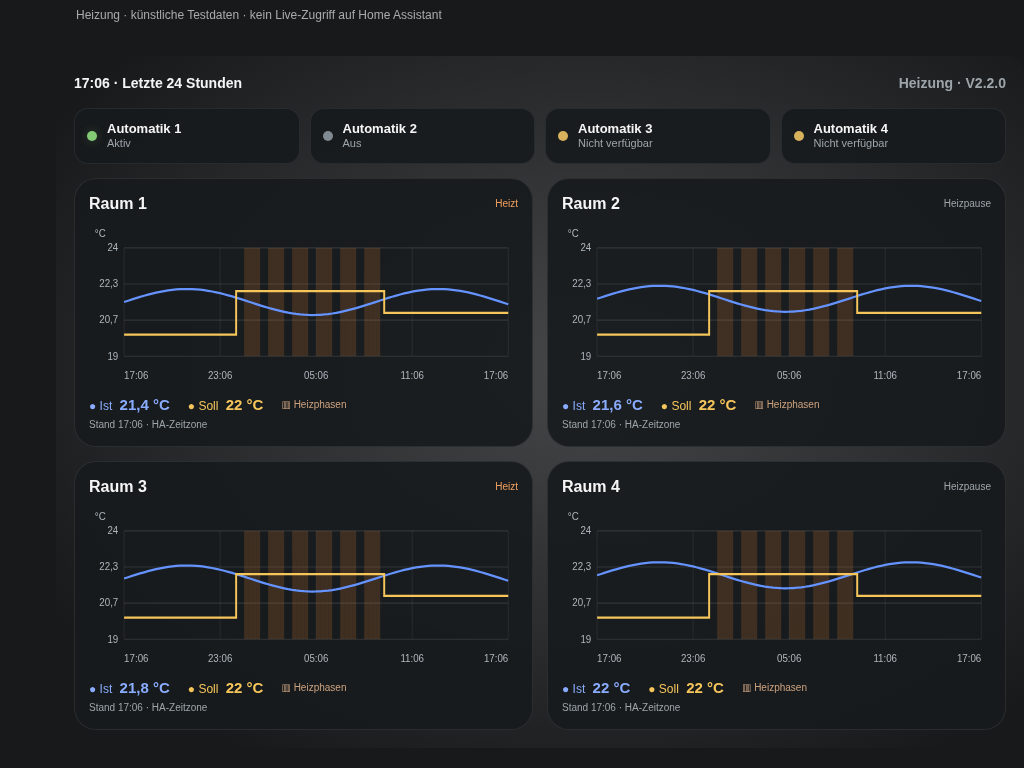
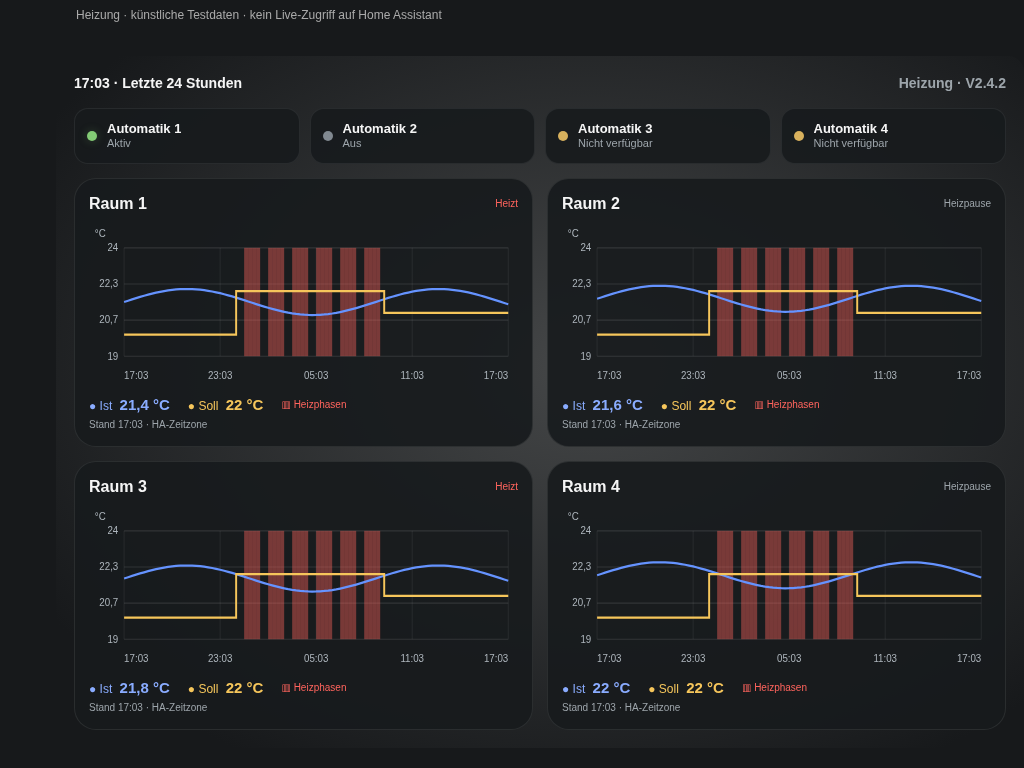
Make heating phases red with stronger opacity

diff --git a/dist/Homedashboard-iPad.js b/dist/Homedashboard-iPad.js
@@ -1,4 +1,4 @@
-/* Home Dashboard iPad v2.4.1 | Generated by npm run build. Edit sources, not this file. */
+/* Home Dashboard iPad v2.4.2 | Generated by npm run build. Edit sources, not this file. */
 (()=>{
 'use strict';
 const escapeHTML = (v) => String(v ?? '').replace(/[&<>"']/g, (c) => ({'&':'&amp;','<':'&lt;','>':'&gt;','"':'&quot;',"'":'&#39;'}[c]));
@@ -95,7 +95,7 @@ function heatingSeries(histories, room, start, end) {
 const esc=escapeHTML;
 
 
-const VERSION='2.4.1';
+const VERSION='2.4.2';
 const DEFAULT_ENTITIES={"current_price": null, "pv_power": null, "pv_energy_today": null, "electricity_consumption_today": null, "electricity_cost_today": null, "vehicle_range": null, "vehicle_soc": null, "vehicle_plug": null, "vehicle_charging": null, "vehicle_target_soc": null, "vehicle_charged_today": null};
 const WEATHER={sunny:['☀','Sonnig'],clear:['☀','Klar'],'clear-night':['☾','Klare Nacht'],cloudy:['☁','Bewölkt'],partlycloudy:['⛅','Teils bewölkt'],rainy:['🌧','Regen'],pouring:['🌧','Starkregen'],snowy:['❄','Schnee'],'snowy-rainy':['🌨','Schneeregen'],fog:['≋','Nebel'],windy:['≋','Windig'],'windy-variant':['≋','Windig'],lightning:['ϟ','Gewitter'],'lightning-rainy':['⛈','Gewitter'],hail:['🌨','Hagel'],exceptional:['⚠','Unwetter']};
 class HomeDashboard extends HTMLElement {
@@ -268,8 +268,8 @@ class HomeDashboard extends HTMLElement {
       if(previous)d+=` H${x(end)}`;
       return d;
     };
-    const bands=series.activity.map((p,i)=>p.value===1?`<rect x="${x(p.time)}" y="22" width="${Math.max(0,x(series.activity[i+1]?.time??end)-x(p.time))}" height="96" fill="#ed8936" opacity=".18"/>`:'').join('');
-    return `<svg class="heating-chart" viewBox="0 0 440 146" preserveAspectRatio="none" role="img" aria-label="${esc(name)}: Isttemperatur blau, Solltemperatur gelb und Heizphasen orange; letzte 24 Stunden"><g font-size="10" fill="#aeb6bd">${Array.from({length:4},(_,i)=>low+(high-low)*i/3).map(v=>`<path d="M36 ${y(v)} H430" stroke="#ffffff1c"/><text x="30" y="${y(v)+3}" text-anchor="end">${v.toLocaleString('de-DE',{maximumFractionDigits:1})}</text>`).join('')}${Array.from({length:5},(_,i)=>start+i*21600000).map((t,i)=>`<path d="M${x(t)} 22 V118" stroke="#ffffff12"/><text x="${x(t)}" y="138" text-anchor="${i===0?'start':i===4?'end':'middle'}">${this._time(new Date(t))}</text>`).join('')}<text x="6" y="12">${esc(this._hass.config?.unit_system?.temperature||'°C')}</text></g>${bands}<path class="actual-line" d="${line(series.actual,false)}" fill="none" stroke="#6593ff" stroke-width="2"/><path class="target-line" d="${line(series.target,true)}" fill="none" stroke="#f6c65b" stroke-width="2"/></svg>`;
+    const bands=series.activity.map((p,i)=>p.value===1?`<rect x="${x(p.time)}" y="22" width="${Math.max(0,x(series.activity[i+1]?.time??end)-x(p.time))}" height="96" fill="#ff645d" opacity=".42"/>`:'').join('');
+    return `<svg class="heating-chart" viewBox="0 0 440 146" preserveAspectRatio="none" role="img" aria-label="${esc(name)}: Isttemperatur blau, Solltemperatur gelb und Heizphasen rot; letzte 24 Stunden"><g font-size="10" fill="#aeb6bd">${Array.from({length:4},(_,i)=>low+(high-low)*i/3).map(v=>`<path d="M36 ${y(v)} H430" stroke="#ffffff1c"/><text x="30" y="${y(v)+3}" text-anchor="end">${v.toLocaleString('de-DE',{maximumFractionDigits:1})}</text>`).join('')}${Array.from({length:5},(_,i)=>start+i*21600000).map((t,i)=>`<path d="M${x(t)} 22 V118" stroke="#ffffff12"/><text x="${x(t)}" y="138" text-anchor="${i===0?'start':i===4?'end':'middle'}">${this._time(new Date(t))}</text>`).join('')}<text x="6" y="12">${esc(this._hass.config?.unit_system?.temperature||'°C')}</text></g>${bands}<path class="actual-line" d="${line(series.actual,false)}" fill="none" stroke="#6593ff" stroke-width="2"/><path class="target-line" d="${line(series.target,true)}" fill="none" stroke="#f6c65b" stroke-width="2"/></svg>`;
   }
   _priceWindow(now=new Date()){
     const w=dayWindow(now,this._zone()),all=this._data.prices||[];
@@ -324,7 +324,7 @@ class HomeDashboard extends HTMLElement {
 }
 const STYLE=`
 
-.heating-layout{height:calc(100vh - var(--header-height,56px) - 90px);min-height:520px;max-height:1000px;display:flex;flex-direction:column;gap:14px}.automation-status{display:grid;grid-template-columns:repeat(4,minmax(0,1fr));gap:10px;flex-shrink:0}.automation-item{display:flex;align-items:center;gap:10px;background:#171a1de8;border:1px solid #ffffff12;border-radius:14px;padding:12px;min-width:0}.automation-item>div{min-width:0}.automation-name{display:block;overflow:hidden;text-overflow:ellipsis;white-space:nowrap;font-size:13px;font-weight:600}.status-dot{width:10px;height:10px;border-radius:50%;background:#d8b15d;flex-shrink:0}.status-dot.active{background:#83cb75;box-shadow:0 0 10px #83cb7540}.status-dot.inactive{background:#818991}.thermostats{display:grid;grid-template-columns:repeat(2,minmax(0,1fr));grid-template-rows:repeat(2,minmax(0,1fr));gap:14px;flex:1;min-height:0}.thermostat{display:flex;flex-direction:column;border:1px solid #ffffff15}.thermostat>.heading{flex-shrink:0;min-height:22px}.thermostat h2{margin:0;font-size:16px;white-space:nowrap;overflow:hidden;text-overflow:ellipsis;min-width:0}.heat-action{white-space:nowrap;font-size:10px}.heating-active{color:#f3a05d}.thermostat .heating-chart{display:block;flex:1;width:100%;height:0;min-height:80px;max-height:none;margin:8px 0}.heating-legend{display:flex;align-items:center;gap:18px;flex-shrink:0;flex-wrap:wrap;font-size:12px}.heating-legend strong{font-size:15px;margin-left:4px;white-space:nowrap}.heating-legend .actual{color:#8aacff}.heating-legend .target{color:#f6c65b}.heating-legend small{font-size:10px;color:#cda27f}.history-note{font-size:10px;min-height:14px;margin-top:5px}.heating-empty{display:grid;place-content:center;flex:1;min-height:80px;color:var(--muted);font-size:13px;text-align:center}.thermostat.empty p{margin:auto;text-align:center}@media(max-width:760px){.heating-layout{height:auto;min-height:0;max-height:none}.automation-status{grid-template-columns:repeat(2,minmax(0,1fr))}.thermostats{grid-template-columns:minmax(0,1fr);grid-template-rows:repeat(4,260px)}.automation-item{padding:10px}.heating-legend{gap:12px}}
+.heating-layout{height:calc(100vh - var(--header-height,56px) - 90px);min-height:520px;max-height:1000px;display:flex;flex-direction:column;gap:14px}.automation-status{display:grid;grid-template-columns:repeat(4,minmax(0,1fr));gap:10px;flex-shrink:0}.automation-item{display:flex;align-items:center;gap:10px;background:#171a1de8;border:1px solid #ffffff12;border-radius:14px;padding:12px;min-width:0}.automation-item>div{min-width:0}.automation-name{display:block;overflow:hidden;text-overflow:ellipsis;white-space:nowrap;font-size:13px;font-weight:600}.status-dot{width:10px;height:10px;border-radius:50%;background:#d8b15d;flex-shrink:0}.status-dot.active{background:#83cb75;box-shadow:0 0 10px #83cb7540}.status-dot.inactive{background:#818991}.thermostats{display:grid;grid-template-columns:repeat(2,minmax(0,1fr));grid-template-rows:repeat(2,minmax(0,1fr));gap:14px;flex:1;min-height:0}.thermostat{display:flex;flex-direction:column;border:1px solid #ffffff15}.thermostat>.heading{flex-shrink:0;min-height:22px}.thermostat h2{margin:0;font-size:16px;white-space:nowrap;overflow:hidden;text-overflow:ellipsis;min-width:0}.heat-action{white-space:nowrap;font-size:10px}.heating-active{color:#ff645d}.thermostat .heating-chart{display:block;flex:1;width:100%;height:0;min-height:80px;max-height:none;margin:8px 0}.heating-legend{display:flex;align-items:center;gap:18px;flex-shrink:0;flex-wrap:wrap;font-size:12px}.heating-legend strong{font-size:15px;margin-left:4px;white-space:nowrap}.heating-legend .actual{color:#8aacff}.heating-legend .target{color:#f6c65b}.heating-legend small{font-size:10px;color:#ff645d}.history-note{font-size:10px;min-height:14px;margin-top:5px}.heating-empty{display:grid;place-content:center;flex:1;min-height:80px;color:var(--muted);font-size:13px;text-align:center}.thermostat.empty p{margin:auto;text-align:center}@media(max-width:760px){.heating-layout{height:auto;min-height:0;max-height:none}.automation-status{grid-template-columns:repeat(2,minmax(0,1fr))}.thermostats{grid-template-columns:minmax(0,1fr);grid-template-rows:repeat(4,260px)}.automation-item{padding:10px}.heating-legend{gap:12px}}
 .price-open{display:block;width:100%;height:calc(100% - 48px);padding:0;border:0;background:transparent;color:var(--muted);text-align:right;cursor:zoom-in}.price-open svg{height:calc(100% - 20px);max-height:none;margin:0}.price-open span{font-size:11px}.price-open:focus-visible,.price-close:focus-visible{outline:2px solid var(--cyan);outline-offset:2px}.price-dialog{background:#171a1d;color:#f5f5f5;border:1px solid #59636d;border-radius:18px;width:min(1000px,94vw);max-height:92vh;overflow:auto;padding:20px}.price-dialog::backdrop{background:#000b}.price-dialog h2{margin:0}.price-dialog p{margin:12px 0}.price-close{min-height:44px;padding:8px 16px;background:#303940;color:white;border:1px solid #687580;border-radius:10px;font:inherit;cursor:pointer}.price-detail-chart svg{height:clamp(180px,48vh,430px);max-height:none;touch-action:none;cursor:crosshair}.price-readout{display:block;min-height:48px;padding:12px 0;font-size:18px;color:#ffda18;font-variant-numeric:tabular-nums}.price-slider-label{display:block;font-size:13px}.price-slider{display:block;width:100%;min-height:44px;accent-color:#6bd2dc}
 :host{display:block;color:#f5f5f5;font-family:-apple-system,BlinkMacSystemFont,'Segoe UI',sans-serif;--cyan:#6bd2dc;--muted:#9da5ab}*{box-sizing:border-box}main{background:radial-gradient(ellipse at 55% 45%,#454748,#17191b 85%);padding:12px 18px 18px;border-radius:16px}header{display:flex;justify-content:space-between;align-items:center;font-weight:650;height:30px;margin-bottom:10px;font-size:14px}header>span:last-child{color:var(--muted)}.grid{display:grid;grid-template-columns:1fr 1fr 1fr;grid-template-rows:2.5fr 1fr 1.1fr .95fr;grid-template-areas:'left price radar' 'left middle weather' 'left middle weather' 'left middle weather';gap:14px;height:calc(100vh - var(--header-height,56px) - 90px);min-height:520px;max-height:1000px}.tile{background:#171a1de8;border-radius:22px;padding:14px;min-width:0;overflow:hidden}.middle-bottom{grid-area:middle;display:grid;grid-template-rows:minmax(136px,.95fr) minmax(140px,1fr);gap:14px;min-height:0;min-width:0}.middle-bottom>.tile{grid-area:auto;min-height:0}.left-column{grid-area:left;display:grid;grid-template-rows:minmax(0,4fr) minmax(100px,1.1fr) 64px;gap:14px;min-height:0;min-width:0}.left-column>.tile{grid-area:auto;min-height:0}.climate{grid-area:climate;display:flex;flex-direction:column}.price{grid-area:price}.radar{grid-area:radar;padding:0;position:relative}.car{grid-area:car}.car-header{margin-bottom:4px}.car-header h2{margin:0;font-size:14px;min-width:0;overflow:hidden;text-overflow:ellipsis;white-space:nowrap}.car-status{flex-shrink:0}.car .big{font-size:28px}.calendar{grid-area:calendar;display:flex;flex-direction:column;gap:2px;padding:10px 12px}.calendar h2{font-size:12px;line-height:14px;margin:0}.calendar .event{display:grid;grid-template-columns:90px minmax(0,1fr);align-items:center;gap:6px;padding:2px 0;border-bottom:1px solid #ffffff12;font-size:11px;line-height:13px;min-height:18px}.calendar .event small{font-size:9px;line-height:13px;white-space:nowrap;overflow:hidden;text-overflow:ellipsis}.calendar>small{font-size:8px;line-height:10px}.calendar p{margin:0;font-size:11px}.weather{grid-area:weather;display:flex;flex-direction:column;gap:6px}.weather>.heading{flex-shrink:0}.weather h2{margin:0}.weather .big{font-size:28px}.weather>.heading>span{font-size:13px}.night{grid-area:night;background:#08a7dd;display:flex;align-items:center;justify-content:space-between;gap:8px;padding:8px 12px}.night h2{margin:0;font-size:15px}.night small{font-size:9px;max-width:38%;text-align:right}.pv{grid-area:pv;padding:12px}.pv h2{font-size:13px;line-height:15px;margin-bottom:7px}.energy-values{display:grid;grid-template-columns:repeat(2,minmax(0,1fr));align-items:start;gap:6px 10px}.energy-values>div{min-width:0}.energy-values strong{display:block;font-size:20px;line-height:1.15;white-space:nowrap;font-variant-numeric:tabular-nums}.energy-values strong small{display:inline;font-weight:400}.energy-values small{font-size:10px;line-height:1.2}h2{font-size:16px;margin:0 0 10px}p{font-size:14px;color:var(--muted)}small{display:block;font-size:11px;color:var(--muted);line-height:1.4}strong{font-size:18px}b{font-size:17px}.heading{display:flex;align-items:center;justify-content:space-between;gap:8px}.heading>strong{text-align:right}.big{font-size:32px;line-height:1.2}.big small{display:inline}.cyan{color:var(--cyan)}.green{color:#7ac64f}.yellow{color:#ffda18}.red{color:#ff645d}.rooms{display:grid;flex:1;min-height:0;grid-template-rows:repeat(var(--room-count,8),minmax(0,1fr));gap:2px}.room{display:grid;grid-template-columns:1.05fr 1.15fr .7fr 1fr;align-items:center;gap:4px;min-height:0}.room>*{min-width:0}.room.pm25{grid-template-columns:1.05fr 1.15fr 1.7fr}.pm25-range{display:grid;grid-template-columns:repeat(2,minmax(0,1fr));gap:6px}.room .pm25-range b{font-size:12px}.pm25-range>span{min-width:0}.pm25-range small{white-space:nowrap}.room>div{white-space:nowrap}.room strong{font-size:13px}.room b{font-size:16px}.co2{font-size:12px;white-space:nowrap}.co2 small{display:inline;margin-left:2px;font-size:9px}.room small{font-size:9px}svg{width:100%;max-height:calc(100% - 56px);display:block;margin-top:6px}.hours{display:grid;grid-template-columns:repeat(6,minmax(0,1fr));gap:2px;margin:6px 0;flex-shrink:0}.hours>div{text-align:center}.hours span{display:block;font-size:18px;line-height:1.2;margin:4px 0}.hours b{font-size:12px}.hours small{font-size:10px;white-space:nowrap}.days{border-top:1px solid #ffffff33;padding-top:6px;display:grid;grid-auto-rows:minmax(0,1fr);flex:1;min-height:0}.days>div{display:grid;grid-template-columns:1fr 1fr 1fr 1fr;gap:6px;align-items:center;min-height:0}.days b{font-size:14px}.days span{font-size:14px}.days span:nth-child(3){color:var(--muted)}.days b:last-child{text-align:right}.event{padding:6px 0;border-bottom:1px solid #ffffff12;font-size:13px;overflow-wrap:anywhere}.event small{font-size:10px}.event>div{white-space:nowrap;overflow:hidden;text-overflow:ellipsis}.night button{appearance:none;border:0;background:transparent;color:white;font:inherit;font-weight:700;font-size:15px;padding:0;text-align:left;cursor:pointer;min-height:44px}.night small{color:#e1f7ff}.radar-cover{height:100%;pointer-events:none;user-select:none}.radar-cover>*{height:100%;display:block}.radar h2,.radar p{padding:14px}@media(max-width:760px){main{padding:10px}.left-column,.middle-bottom{display:contents}.middle-bottom>.pv{grid-area:pv}.middle-bottom>.calendar{grid-area:calendar}.left-column>.climate{grid-area:climate}.left-column>.car{grid-area:car}.left-column>.night{grid-area:night;padding:8px 12px}.grid{grid-auto-rows:64px}.grid{height:auto;min-height:0;grid-template-columns:1fr 1fr;grid-template-rows:400px 250px 160px 170px 120px;grid-template-areas:'climate weather' 'price radar' 'pv pv' 'calendar calendar' 'car car' 'night night'}.tile{padding:12px}.radar{padding:0}}`;
 if(!customElements.get('home-dashboard'))customElements.define('home-dashboard',HomeDashboard);

diff --git a/www/home-dashboard/home-dashboard.js b/www/home-dashboard/home-dashboard.js
@@ -1,6 +1,6 @@
-import {escapeHTML as esc, dayKey, dayWindow, midnight, numberState, selectPrices, calendarEvents, historyExtrema, temperatureValue, heatingActivity, heatingSeries} from './data.js?v=2.4.1';
+import {escapeHTML as esc, dayKey, dayWindow, midnight, numberState, selectPrices, calendarEvents, historyExtrema, temperatureValue, heatingActivity, heatingSeries} from './data.js?v=2.4.2';
 
-const VERSION='2.4.1';
+const VERSION='2.4.2';
 const DEFAULT_ENTITIES={"current_price": null, "pv_power": null, "pv_energy_today": null, "electricity_consumption_today": null, "electricity_cost_today": null, "vehicle_range": null, "vehicle_soc": null, "vehicle_plug": null, "vehicle_charging": null, "vehicle_target_soc": null, "vehicle_charged_today": null};
 const WEATHER={sunny:['☀','Sonnig'],clear:['☀','Klar'],'clear-night':['☾','Klare Nacht'],cloudy:['☁','Bewölkt'],partlycloudy:['⛅','Teils bewölkt'],rainy:['🌧','Regen'],pouring:['🌧','Starkregen'],snowy:['❄','Schnee'],'snowy-rainy':['🌨','Schneeregen'],fog:['≋','Nebel'],windy:['≋','Windig'],'windy-variant':['≋','Windig'],lightning:['ϟ','Gewitter'],'lightning-rainy':['⛈','Gewitter'],hail:['🌨','Hagel'],exceptional:['⚠','Unwetter']};
 export class HomeDashboard extends HTMLElement {
@@ -173,8 +173,8 @@ export class HomeDashboard extends HTMLElement {
       if(previous)d+=` H${x(end)}`;
       return d;
     };
-    const bands=series.activity.map((p,i)=>p.value===1?`<rect x="${x(p.time)}" y="22" width="${Math.max(0,x(series.activity[i+1]?.time??end)-x(p.time))}" height="96" fill="#ed8936" opacity=".18"/>`:'').join('');
-    return `<svg class="heating-chart" viewBox="0 0 440 146" preserveAspectRatio="none" role="img" aria-label="${esc(name)}: Isttemperatur blau, Solltemperatur gelb und Heizphasen orange; letzte 24 Stunden"><g font-size="10" fill="#aeb6bd">${Array.from({length:4},(_,i)=>low+(high-low)*i/3).map(v=>`<path d="M36 ${y(v)} H430" stroke="#ffffff1c"/><text x="30" y="${y(v)+3}" text-anchor="end">${v.toLocaleString('de-DE',{maximumFractionDigits:1})}</text>`).join('')}${Array.from({length:5},(_,i)=>start+i*21600000).map((t,i)=>`<path d="M${x(t)} 22 V118" stroke="#ffffff12"/><text x="${x(t)}" y="138" text-anchor="${i===0?'start':i===4?'end':'middle'}">${this._time(new Date(t))}</text>`).join('')}<text x="6" y="12">${esc(this._hass.config?.unit_system?.temperature||'°C')}</text></g>${bands}<path class="actual-line" d="${line(series.actual,false)}" fill="none" stroke="#6593ff" stroke-width="2"/><path class="target-line" d="${line(series.target,true)}" fill="none" stroke="#f6c65b" stroke-width="2"/></svg>`;
+    const bands=series.activity.map((p,i)=>p.value===1?`<rect x="${x(p.time)}" y="22" width="${Math.max(0,x(series.activity[i+1]?.time??end)-x(p.time))}" height="96" fill="#ff645d" opacity=".42"/>`:'').join('');
+    return `<svg class="heating-chart" viewBox="0 0 440 146" preserveAspectRatio="none" role="img" aria-label="${esc(name)}: Isttemperatur blau, Solltemperatur gelb und Heizphasen rot; letzte 24 Stunden"><g font-size="10" fill="#aeb6bd">${Array.from({length:4},(_,i)=>low+(high-low)*i/3).map(v=>`<path d="M36 ${y(v)} H430" stroke="#ffffff1c"/><text x="30" y="${y(v)+3}" text-anchor="end">${v.toLocaleString('de-DE',{maximumFractionDigits:1})}</text>`).join('')}${Array.from({length:5},(_,i)=>start+i*21600000).map((t,i)=>`<path d="M${x(t)} 22 V118" stroke="#ffffff12"/><text x="${x(t)}" y="138" text-anchor="${i===0?'start':i===4?'end':'middle'}">${this._time(new Date(t))}</text>`).join('')}<text x="6" y="12">${esc(this._hass.config?.unit_system?.temperature||'°C')}</text></g>${bands}<path class="actual-line" d="${line(series.actual,false)}" fill="none" stroke="#6593ff" stroke-width="2"/><path class="target-line" d="${line(series.target,true)}" fill="none" stroke="#f6c65b" stroke-width="2"/></svg>`;
   }
   _priceWindow(now=new Date()){
     const w=dayWindow(now,this._zone()),all=this._data.prices||[];
@@ -229,7 +229,7 @@ export class HomeDashboard extends HTMLElement {
 }
 const STYLE=`
 
-.heating-layout{height:calc(100vh - var(--header-height,56px) - 90px);min-height:520px;max-height:1000px;display:flex;flex-direction:column;gap:14px}.automation-status{display:grid;grid-template-columns:repeat(4,minmax(0,1fr));gap:10px;flex-shrink:0}.automation-item{display:flex;align-items:center;gap:10px;background:#171a1de8;border:1px solid #ffffff12;border-radius:14px;padding:12px;min-width:0}.automation-item>div{min-width:0}.automation-name{display:block;overflow:hidden;text-overflow:ellipsis;white-space:nowrap;font-size:13px;font-weight:600}.status-dot{width:10px;height:10px;border-radius:50%;background:#d8b15d;flex-shrink:0}.status-dot.active{background:#83cb75;box-shadow:0 0 10px #83cb7540}.status-dot.inactive{background:#818991}.thermostats{display:grid;grid-template-columns:repeat(2,minmax(0,1fr));grid-template-rows:repeat(2,minmax(0,1fr));gap:14px;flex:1;min-height:0}.thermostat{display:flex;flex-direction:column;border:1px solid #ffffff15}.thermostat>.heading{flex-shrink:0;min-height:22px}.thermostat h2{margin:0;font-size:16px;white-space:nowrap;overflow:hidden;text-overflow:ellipsis;min-width:0}.heat-action{white-space:nowrap;font-size:10px}.heating-active{color:#f3a05d}.thermostat .heating-chart{display:block;flex:1;width:100%;height:0;min-height:80px;max-height:none;margin:8px 0}.heating-legend{display:flex;align-items:center;gap:18px;flex-shrink:0;flex-wrap:wrap;font-size:12px}.heating-legend strong{font-size:15px;margin-left:4px;white-space:nowrap}.heating-legend .actual{color:#8aacff}.heating-legend .target{color:#f6c65b}.heating-legend small{font-size:10px;color:#cda27f}.history-note{font-size:10px;min-height:14px;margin-top:5px}.heating-empty{display:grid;place-content:center;flex:1;min-height:80px;color:var(--muted);font-size:13px;text-align:center}.thermostat.empty p{margin:auto;text-align:center}@media(max-width:760px){.heating-layout{height:auto;min-height:0;max-height:none}.automation-status{grid-template-columns:repeat(2,minmax(0,1fr))}.thermostats{grid-template-columns:minmax(0,1fr);grid-template-rows:repeat(4,260px)}.automation-item{padding:10px}.heating-legend{gap:12px}}
+.heating-layout{height:calc(100vh - var(--header-height,56px) - 90px);min-height:520px;max-height:1000px;display:flex;flex-direction:column;gap:14px}.automation-status{display:grid;grid-template-columns:repeat(4,minmax(0,1fr));gap:10px;flex-shrink:0}.automation-item{display:flex;align-items:center;gap:10px;background:#171a1de8;border:1px solid #ffffff12;border-radius:14px;padding:12px;min-width:0}.automation-item>div{min-width:0}.automation-name{display:block;overflow:hidden;text-overflow:ellipsis;white-space:nowrap;font-size:13px;font-weight:600}.status-dot{width:10px;height:10px;border-radius:50%;background:#d8b15d;flex-shrink:0}.status-dot.active{background:#83cb75;box-shadow:0 0 10px #83cb7540}.status-dot.inactive{background:#818991}.thermostats{display:grid;grid-template-columns:repeat(2,minmax(0,1fr));grid-template-rows:repeat(2,minmax(0,1fr));gap:14px;flex:1;min-height:0}.thermostat{display:flex;flex-direction:column;border:1px solid #ffffff15}.thermostat>.heading{flex-shrink:0;min-height:22px}.thermostat h2{margin:0;font-size:16px;white-space:nowrap;overflow:hidden;text-overflow:ellipsis;min-width:0}.heat-action{white-space:nowrap;font-size:10px}.heating-active{color:#ff645d}.thermostat .heating-chart{display:block;flex:1;width:100%;height:0;min-height:80px;max-height:none;margin:8px 0}.heating-legend{display:flex;align-items:center;gap:18px;flex-shrink:0;flex-wrap:wrap;font-size:12px}.heating-legend strong{font-size:15px;margin-left:4px;white-space:nowrap}.heating-legend .actual{color:#8aacff}.heating-legend .target{color:#f6c65b}.heating-legend small{font-size:10px;color:#ff645d}.history-note{font-size:10px;min-height:14px;margin-top:5px}.heating-empty{display:grid;place-content:center;flex:1;min-height:80px;color:var(--muted);font-size:13px;text-align:center}.thermostat.empty p{margin:auto;text-align:center}@media(max-width:760px){.heating-layout{height:auto;min-height:0;max-height:none}.automation-status{grid-template-columns:repeat(2,minmax(0,1fr))}.thermostats{grid-template-columns:minmax(0,1fr);grid-template-rows:repeat(4,260px)}.automation-item{padding:10px}.heating-legend{gap:12px}}
 .price-open{display:block;width:100%;height:calc(100% - 48px);padding:0;border:0;background:transparent;color:var(--muted);text-align:right;cursor:zoom-in}.price-open svg{height:calc(100% - 20px);max-height:none;margin:0}.price-open span{font-size:11px}.price-open:focus-visible,.price-close:focus-visible{outline:2px solid var(--cyan);outline-offset:2px}.price-dialog{background:#171a1d;color:#f5f5f5;border:1px solid #59636d;border-radius:18px;width:min(1000px,94vw);max-height:92vh;overflow:auto;padding:20px}.price-dialog::backdrop{background:#000b}.price-dialog h2{margin:0}.price-dialog p{margin:12px 0}.price-close{min-height:44px;padding:8px 16px;background:#303940;color:white;border:1px solid #687580;border-radius:10px;font:inherit;cursor:pointer}.price-detail-chart svg{height:clamp(180px,48vh,430px);max-height:none;touch-action:none;cursor:crosshair}.price-readout{display:block;min-height:48px;padding:12px 0;font-size:18px;color:#ffda18;font-variant-numeric:tabular-nums}.price-slider-label{display:block;font-size:13px}.price-slider{display:block;width:100%;min-height:44px;accent-color:#6bd2dc}
 :host{display:block;color:#f5f5f5;font-family:-apple-system,BlinkMacSystemFont,'Segoe UI',sans-serif;--cyan:#6bd2dc;--muted:#9da5ab}*{box-sizing:border-box}main{background:radial-gradient(ellipse at 55% 45%,#454748,#17191b 85%);padding:12px 18px 18px;border-radius:16px}header{display:flex;justify-content:space-between;align-items:center;font-weight:650;height:30px;margin-bottom:10px;font-size:14px}header>span:last-child{color:var(--muted)}.grid{display:grid;grid-template-columns:1fr 1fr 1fr;grid-template-rows:2.5fr 1fr 1.1fr .95fr;grid-template-areas:'left price radar' 'left middle weather' 'left middle weather' 'left middle weather';gap:14px;height:calc(100vh - var(--header-height,56px) - 90px);min-height:520px;max-height:1000px}.tile{background:#171a1de8;border-radius:22px;padding:14px;min-width:0;overflow:hidden}.middle-bottom{grid-area:middle;display:grid;grid-template-rows:minmax(136px,.95fr) minmax(140px,1fr);gap:14px;min-height:0;min-width:0}.middle-bottom>.tile{grid-area:auto;min-height:0}.left-column{grid-area:left;display:grid;grid-template-rows:minmax(0,4fr) minmax(100px,1.1fr) 64px;gap:14px;min-height:0;min-width:0}.left-column>.tile{grid-area:auto;min-height:0}.climate{grid-area:climate;display:flex;flex-direction:column}.price{grid-area:price}.radar{grid-area:radar;padding:0;position:relative}.car{grid-area:car}.car-header{margin-bottom:4px}.car-header h2{margin:0;font-size:14px;min-width:0;overflow:hidden;text-overflow:ellipsis;white-space:nowrap}.car-status{flex-shrink:0}.car .big{font-size:28px}.calendar{grid-area:calendar;display:flex;flex-direction:column;gap:2px;padding:10px 12px}.calendar h2{font-size:12px;line-height:14px;margin:0}.calendar .event{display:grid;grid-template-columns:90px minmax(0,1fr);align-items:center;gap:6px;padding:2px 0;border-bottom:1px solid #ffffff12;font-size:11px;line-height:13px;min-height:18px}.calendar .event small{font-size:9px;line-height:13px;white-space:nowrap;overflow:hidden;text-overflow:ellipsis}.calendar>small{font-size:8px;line-height:10px}.calendar p{margin:0;font-size:11px}.weather{grid-area:weather;display:flex;flex-direction:column;gap:6px}.weather>.heading{flex-shrink:0}.weather h2{margin:0}.weather .big{font-size:28px}.weather>.heading>span{font-size:13px}.night{grid-area:night;background:#08a7dd;display:flex;align-items:center;justify-content:space-between;gap:8px;padding:8px 12px}.night h2{margin:0;font-size:15px}.night small{font-size:9px;max-width:38%;text-align:right}.pv{grid-area:pv;padding:12px}.pv h2{font-size:13px;line-height:15px;margin-bottom:7px}.energy-values{display:grid;grid-template-columns:repeat(2,minmax(0,1fr));align-items:start;gap:6px 10px}.energy-values>div{min-width:0}.energy-values strong{display:block;font-size:20px;line-height:1.15;white-space:nowrap;font-variant-numeric:tabular-nums}.energy-values strong small{display:inline;font-weight:400}.energy-values small{font-size:10px;line-height:1.2}h2{font-size:16px;margin:0 0 10px}p{font-size:14px;color:var(--muted)}small{display:block;font-size:11px;color:var(--muted);line-height:1.4}strong{font-size:18px}b{font-size:17px}.heading{display:flex;align-items:center;justify-content:space-between;gap:8px}.heading>strong{text-align:right}.big{font-size:32px;line-height:1.2}.big small{display:inline}.cyan{color:var(--cyan)}.green{color:#7ac64f}.yellow{color:#ffda18}.red{color:#ff645d}.rooms{display:grid;flex:1;min-height:0;grid-template-rows:repeat(var(--room-count,8),minmax(0,1fr));gap:2px}.room{display:grid;grid-template-columns:1.05fr 1.15fr .7fr 1fr;align-items:center;gap:4px;min-height:0}.room>*{min-width:0}.room.pm25{grid-template-columns:1.05fr 1.15fr 1.7fr}.pm25-range{display:grid;grid-template-columns:repeat(2,minmax(0,1fr));gap:6px}.room .pm25-range b{font-size:12px}.pm25-range>span{min-width:0}.pm25-range small{white-space:nowrap}.room>div{white-space:nowrap}.room strong{font-size:13px}.room b{font-size:16px}.co2{font-size:12px;white-space:nowrap}.co2 small{display:inline;margin-left:2px;font-size:9px}.room small{font-size:9px}svg{width:100%;max-height:calc(100% - 56px);display:block;margin-top:6px}.hours{display:grid;grid-template-columns:repeat(6,minmax(0,1fr));gap:2px;margin:6px 0;flex-shrink:0}.hours>div{text-align:center}.hours span{display:block;font-size:18px;line-height:1.2;margin:4px 0}.hours b{font-size:12px}.hours small{font-size:10px;white-space:nowrap}.days{border-top:1px solid #ffffff33;padding-top:6px;display:grid;grid-auto-rows:minmax(0,1fr);flex:1;min-height:0}.days>div{display:grid;grid-template-columns:1fr 1fr 1fr 1fr;gap:6px;align-items:center;min-height:0}.days b{font-size:14px}.days span{font-size:14px}.days span:nth-child(3){color:var(--muted)}.days b:last-child{text-align:right}.event{padding:6px 0;border-bottom:1px solid #ffffff12;font-size:13px;overflow-wrap:anywhere}.event small{font-size:10px}.event>div{white-space:nowrap;overflow:hidden;text-overflow:ellipsis}.night button{appearance:none;border:0;background:transparent;color:white;font:inherit;font-weight:700;font-size:15px;padding:0;text-align:left;cursor:pointer;min-height:44px}.night small{color:#e1f7ff}.radar-cover{height:100%;pointer-events:none;user-select:none}.radar-cover>*{height:100%;display:block}.radar h2,.radar p{padding:14px}@media(max-width:760px){main{padding:10px}.left-column,.middle-bottom{display:contents}.middle-bottom>.pv{grid-area:pv}.middle-bottom>.calendar{grid-area:calendar}.left-column>.climate{grid-area:climate}.left-column>.car{grid-area:car}.left-column>.night{grid-area:night;padding:8px 12px}.grid{grid-auto-rows:64px}.grid{height:auto;min-height:0;grid-template-columns:1fr 1fr;grid-template-rows:400px 250px 160px 170px 120px;grid-template-areas:'climate weather' 'price radar' 'pv pv' 'calendar calendar' 'car car' 'night night'}.tile{padding:12px}.radar{padding:0}}`;
 if(!customElements.get('home-dashboard'))customElements.define('home-dashboard',HomeDashboard);

diff --git a/tests/demo.html b/tests/demo.html
@@ -1,6 +1,6 @@
-<!doctype html><html lang="de"><meta charset="utf-8"><meta name="viewport" content="width=device-width, initial-scale=1"><title>V2.4.1 – Testdaten</title>
+<!doctype html><html lang="de"><meta charset="utf-8"><meta name="viewport" content="width=device-width, initial-scale=1"><title>V2.4.2 – Testdaten</title>
 <style>body{margin:0;padding-left:56px;background:#17191b;font-family:sans-serif}.demo-label{height:56px;box-sizing:border-box;padding:8px 20px;color:#aaa;font-size:12px}</style>
-<div class="demo-label">V2.4.1 · Darstellung mit künstlichen Testdaten · kein Live-Zugriff auf Home Assistant</div>
+<div class="demo-label">V2.4.2 · Darstellung mit künstlichen Testdaten · kein Live-Zugriff auf Home Assistant</div>
 <script type="module">
 await import(new URLSearchParams(location.search).has('bundle') ? '../dist/Homedashboard-iPad.js' : '../www/home-dashboard/home-dashboard.js');
 import {dayWindow} from '../www/home-dashboard/data.js';

diff --git a/docs/HEATING.md b/docs/HEATING.md
@@ -43,7 +43,7 @@ Ohne diese optionalen Zuordnungen reicht eine Climate-Entität pro Raum. Die Tem
 
 ## Historie und Aktualisierung
 
-- Blau: Isttemperatur. Gelb: Solltemperatur als Stufenkurve. Orange Flächen: gemeldete Heizphasen, keine geschätzte Wärmeanforderung.
+- Blau: Isttemperatur. Gelb: Solltemperatur als Stufenkurve. Rote Flächen mit 42 % Deckkraft: gemeldete Heizphasen, keine geschätzte Wärmeanforderung.
 - Ein gemeinsamer Abruf liest die letzten 24 Stunden für die konfigurierten Regler und optionalen Sensoren aus der HA-Historie. Die Climate-Attribute und ihre Änderungszeitpunkte bleiben dabei erhalten. Nachladen spätestens beim nächsten 15-Sekunden-Anzeigezyklus nach Ablauf von fünf Minuten.
 - Aktuelle Temperaturen, Heizstatus und Schalterstatus kommen direkt aus den HA-Zustandsaktualisierungen. Der Verlauf zeigt den Stand des letzten erfolgreichen Historienabrufs; dieser steht unter der Kachel. Die Uhrzeiten folgen der HA-Zeitzone.
 - Die beteiligten Entitäten müssen durch den HA-Recorder aufgezeichnet werden. Ohne gespeicherte Temperaturwerte erscheint **Keine Temperaturhistorie verfügbar**. Fehlende Live-Werte erscheinen als `—`; unbekannte Heizaktivität wird nicht als Heizpause ausgegeben.

diff --git a/docs/releases/v2.4.2.md b/docs/releases/v2.4.2.md
@@ -1,0 +1,10 @@
+# V2.4.2 – Deutlichere rote Heizphasen
+
+- Heizphasen in allen vier Heizungsdiagrammen rot statt orange.
+- Deckkraft von 18 % auf 42 % erhöht, damit Heizphasen deutlicher sichtbar bleiben. Ist- und Solltemperaturkurven liegen weiterhin darüber.
+- Legende „Heizphasen“, aktiver Status „Heizt“ und Diagrammbeschreibung verwenden ebenfalls Rot.
+- Dokumentation und synthetische Beispielbilder aktualisiert. Keine Änderung der lokalen YAML erforderlich.
+
+Geprüft: Build, Syntax, Artefaktvergleich, Daten- und Datenschutzprüfungen sowie Offline-Chromium der Heizungs- und Zuhause-Ansicht für Quellen und HACS-Paket. Kein Live-Test einer konkreten HA-Installation.
+
+Nach dem HACS-Update die Dashboard-Seite vollständig neu laden.

diff --git a/README.md b/README.md
@@ -1,8 +1,15 @@
-# Home Dashboard iPad · V2.4.1
+# Home Dashboard iPad · V2.4.2
 
 Eine konfigurierbare Home-Assistant-Karte für ein übersichtliches Dashboard im Querformat. **Der öffentliche Code enthält keine Zuordnungen zu einer konkreten HA-Installation.** Entitäten werden im eigenen HA-Dashboard-YAML gespeichert und bleiben bei HACS-Updates erhalten.
 
 ![Dashboard mit ausschließlich synthetischen Beispieldaten](docs/demo.png)
+
+## Neu in V2.4.2
+
+- Heizphasen aller vier Heizungsregler rot statt orange und mit höherer Deckkraft (42 % statt 18 %).
+- Legende und aktiver Heizstatus passend rot; Heizungs-Beispielbild und Dokumentation aktualisiert.
+
+Weitere Details: [Releasehinweise V2.4.2](docs/releases/v2.4.2.md).
 
 ## Neu in V2.4.1
 
